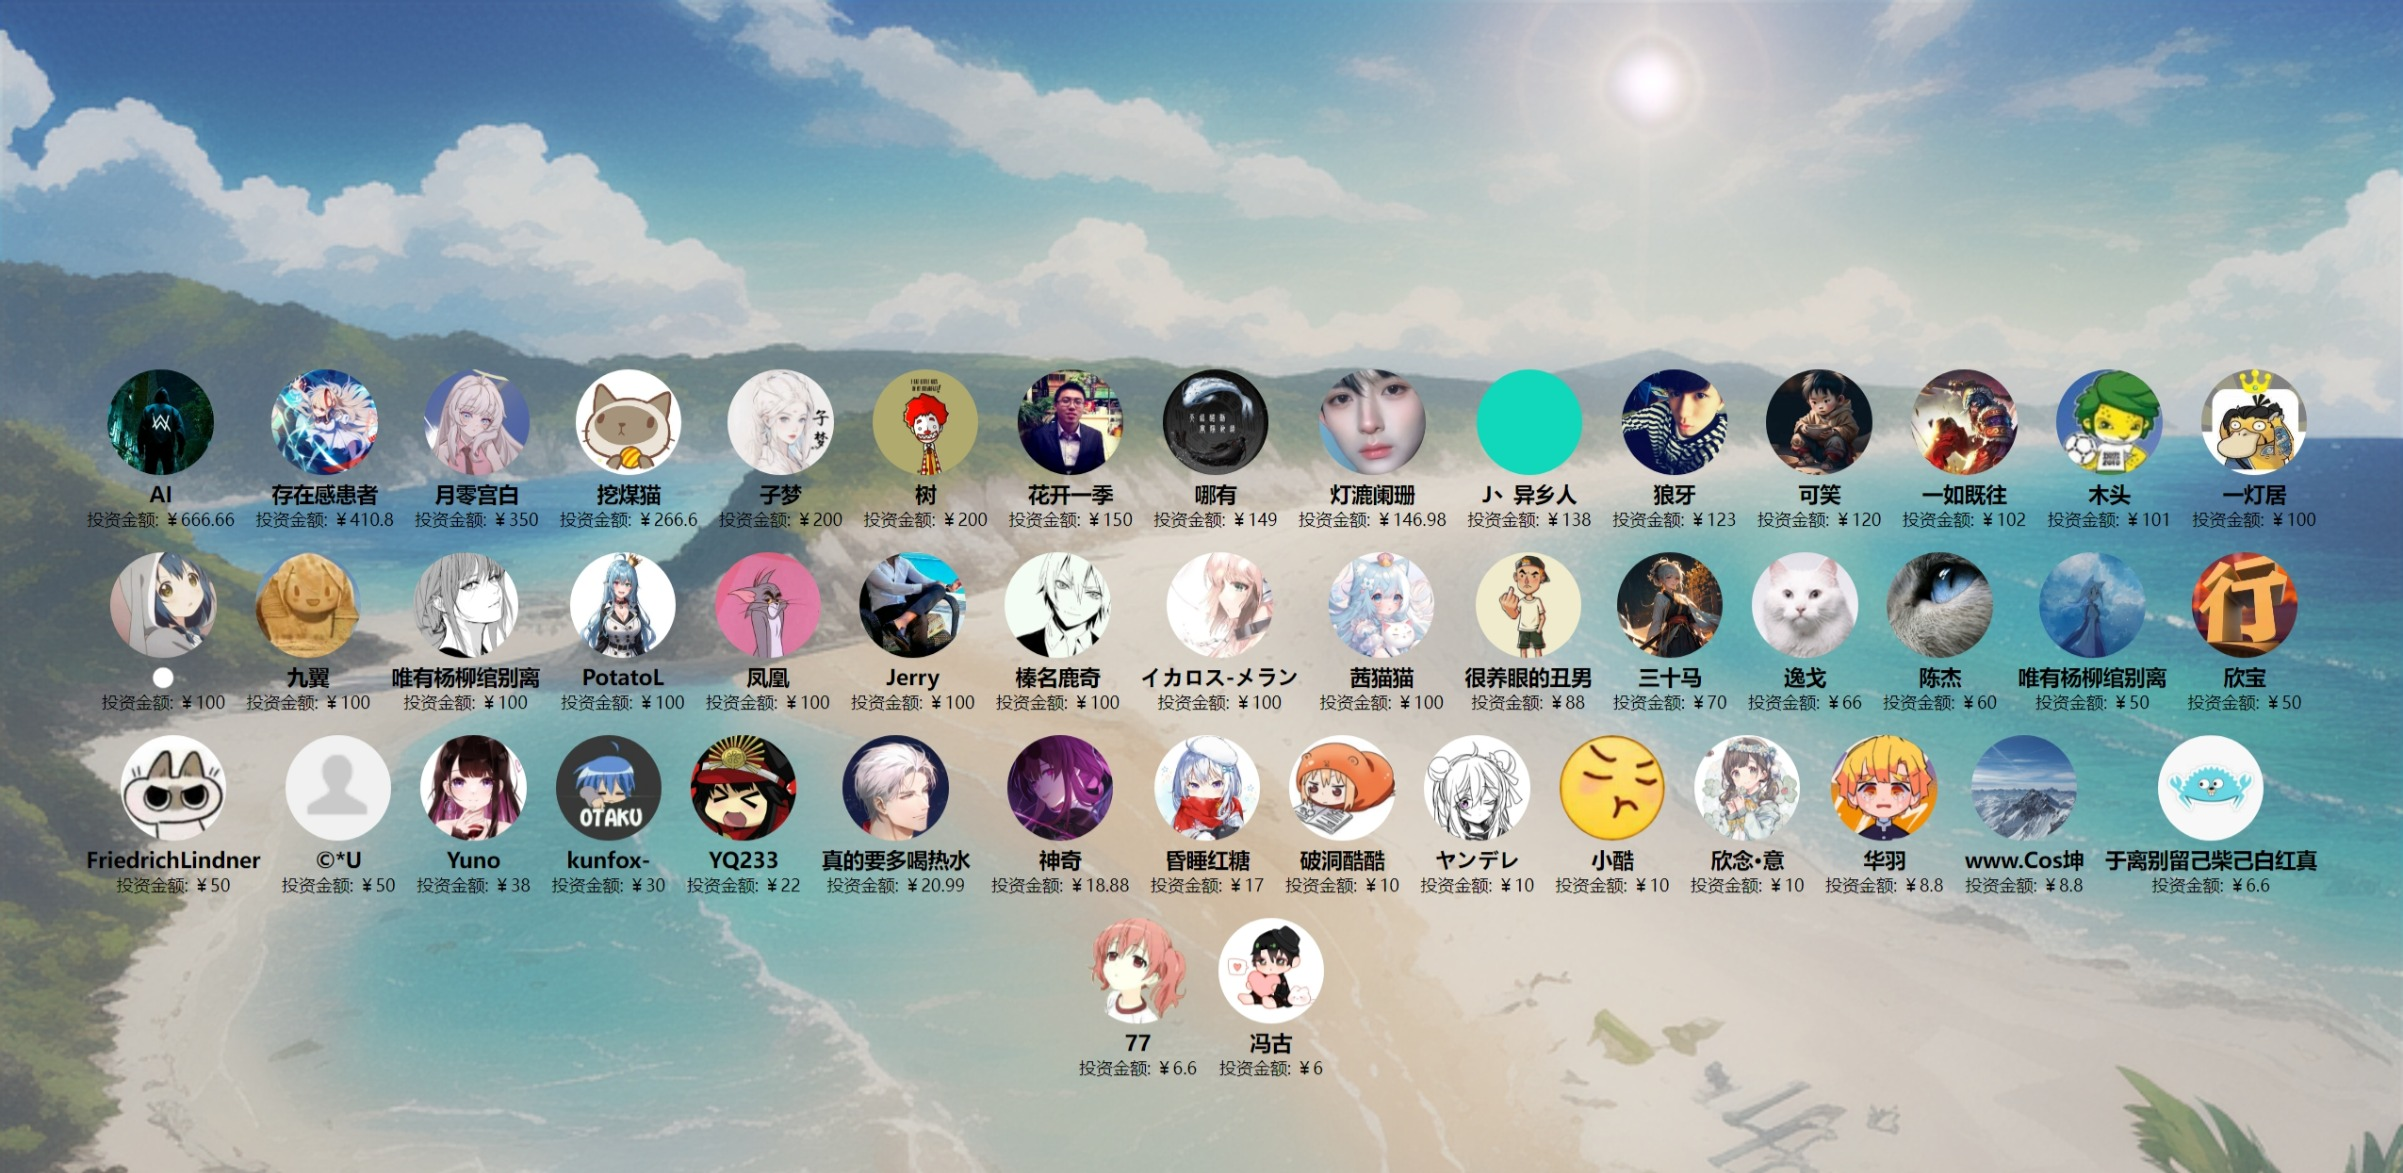
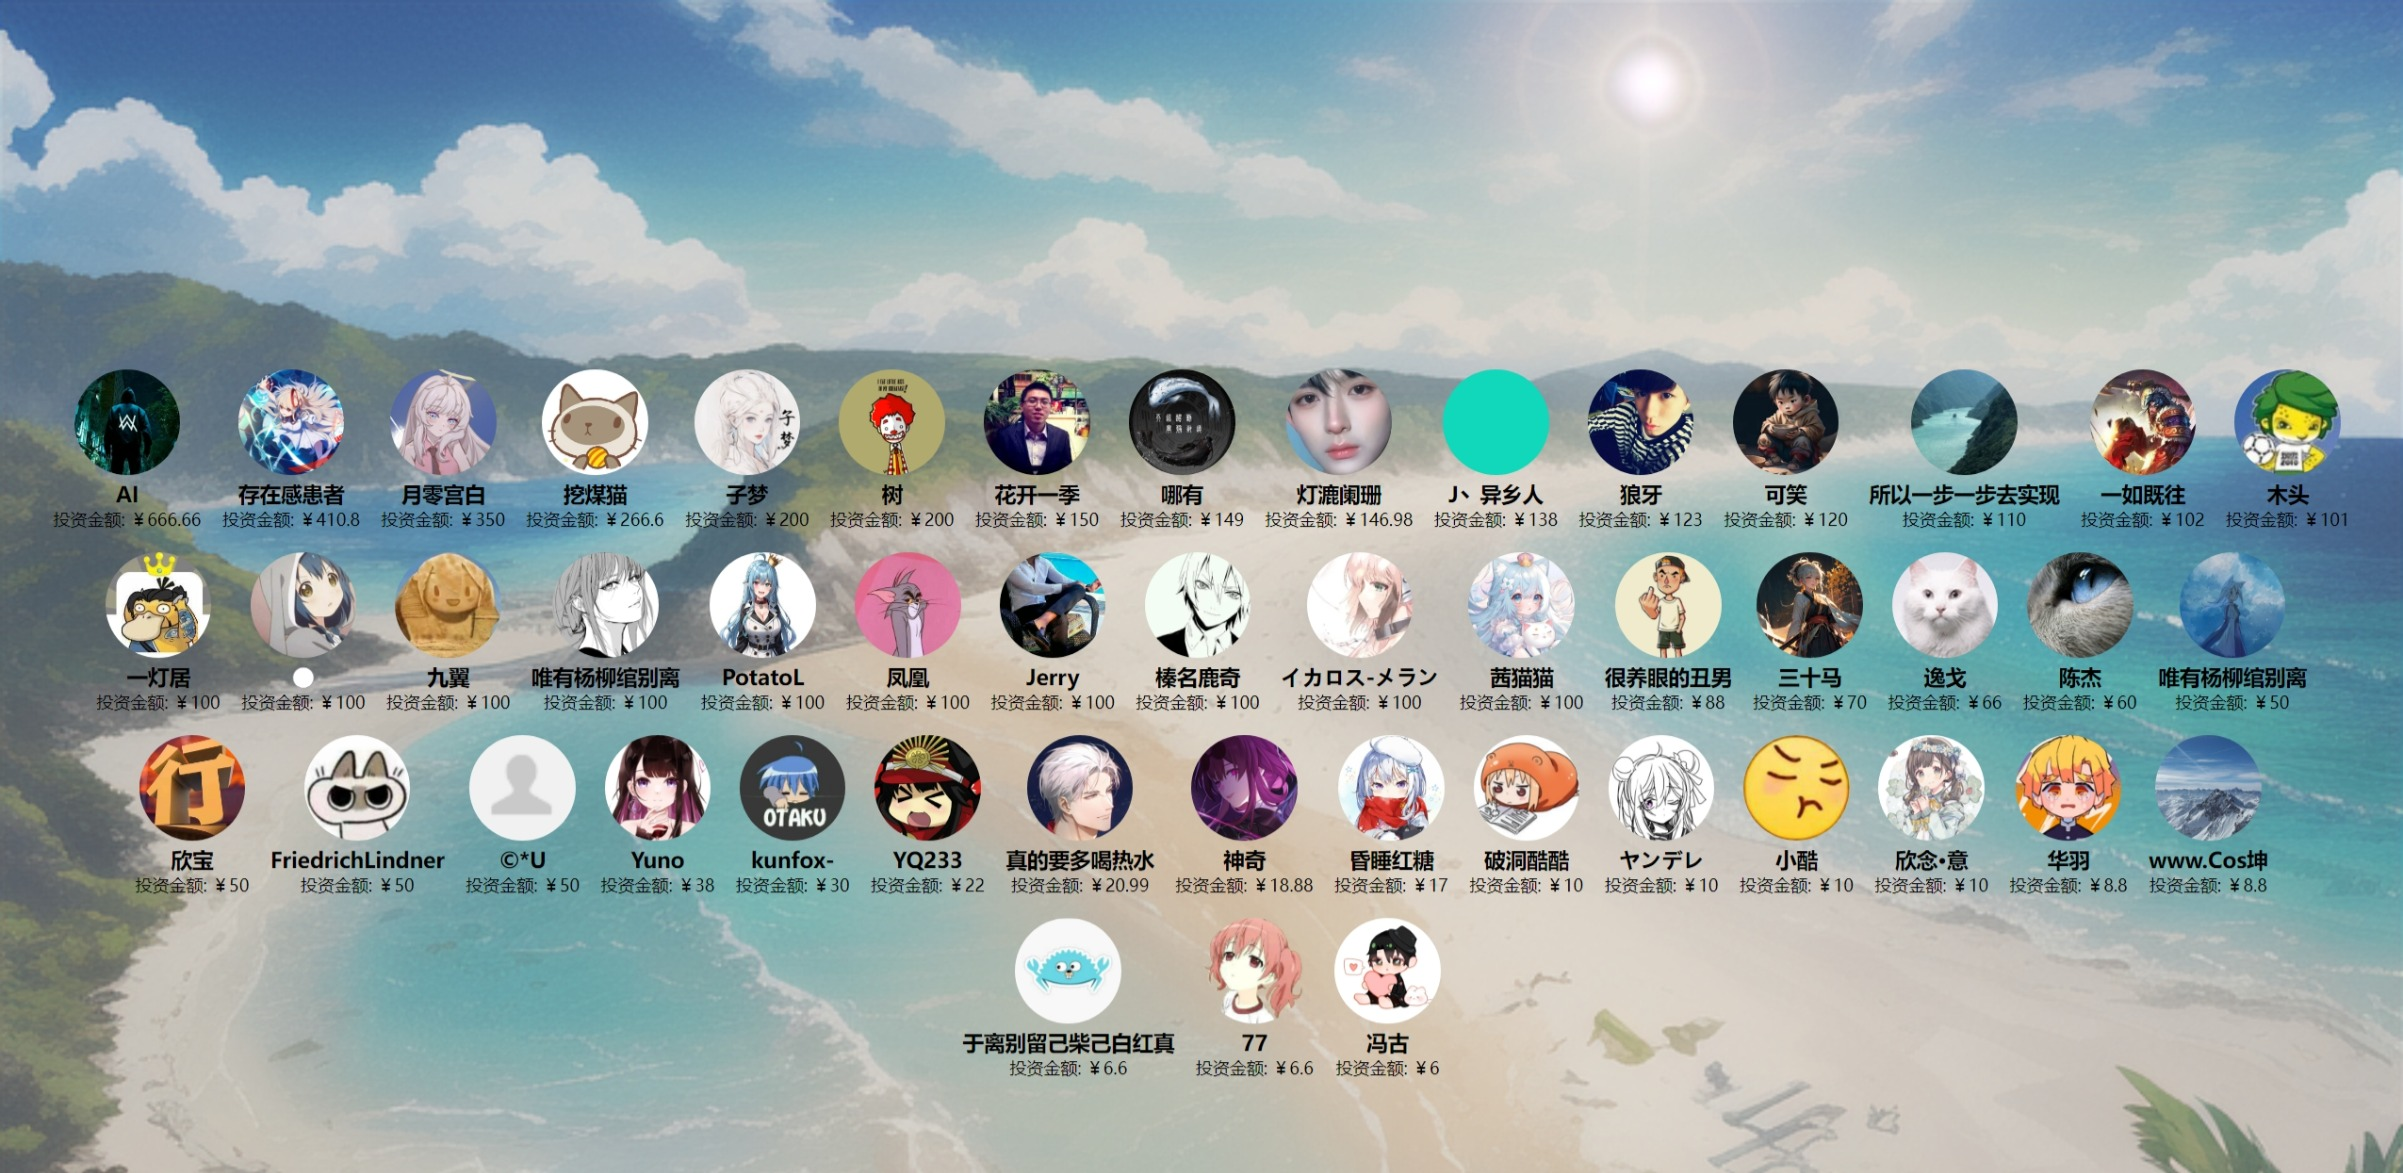
更新投资人信息

Changed region(s): [[0.0312, 0.3069, 0.9988, 0.9207]]

diff --git a/docs/投资人/index.html b/docs/投资人/index.html
@@ -112,6 +112,11 @@
             amount: "￥120"
         },
         {
+            name: "所以一步一步去实现",
+            avatar: "https://images.cnblogs.com/cnblogs_com/ikaros-521/2328032/o_231102080949_QQ%E5%9B%BE%E7%89%8720231102160835.jpg",
+            amount: "￥110"
+        },
+        {
             name: "一如既往",
             avatar: "https://images.cnblogs.com/cnblogs_com/ikaros-521/2328032/o_230719123315_%E4%B8%80%E5%A6%82%E6%97%A2%E5%BE%80.jpg",
             amount: "￥102"
